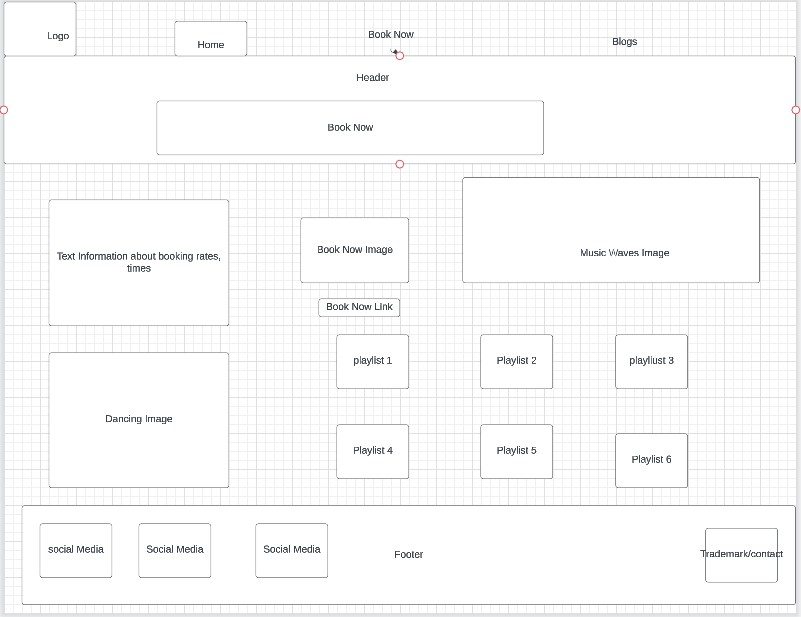
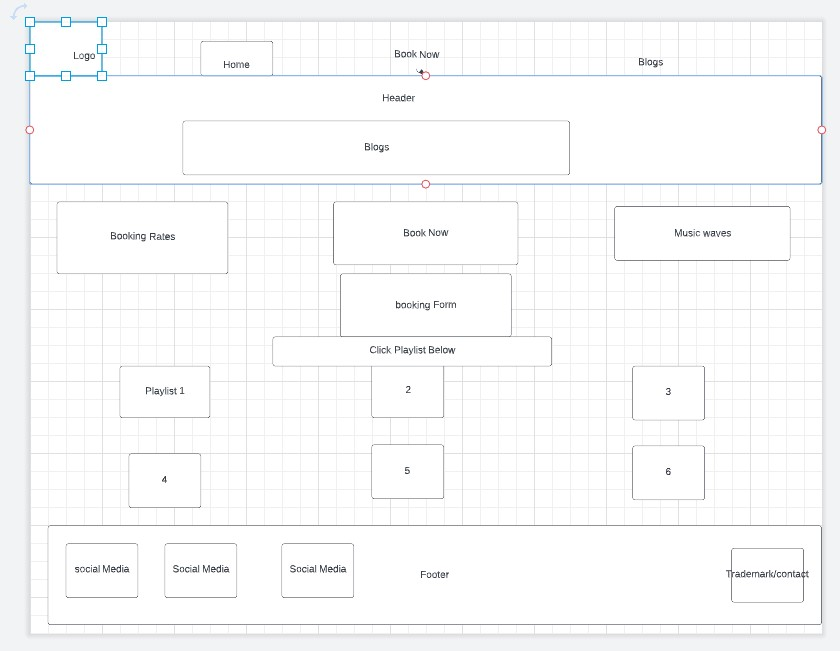
UPDATES

diff --git a/dj/bookconformation.html b/dj/bookconformation.html
@@ -1,16 +1,18 @@
 <!DOCTYPE html>
 <html lang="en">
 <head>
+    <link rel="stylesheet" href="styles/style.css">
     <meta charset="UTF-8">
     <meta http-equiv="X-UA-Compatible" content="IE=edge">
-    <meta name="viewport" content="width=<device-width>, initial-scale=1.0">
-    <title>Booking Confirmed</title>
+    <meta name="viewport" content="width=device-width, initial-scale=1.0">
+    <title>Home</title>
 </head>
 <body>
-    <div id="content">
+    <div id="home-content">
+       
         <header>
-            <a= id="logo_link" href="index.html">
-                <img class= logo src="images/djlogo.jpg" alt="DJ Ziggy Logo" width="50" height="50">
+            <a id="logo_link" href="index.html">
+                <img class="logo" src="images/djlogo.jpg" alt="DJ Ziggy Logo">
             </a>
             <nav>
                 <a href="index.html">Home</a>
@@ -18,6 +20,7 @@
                 <a href="blogs.html">Blogs</a>
 
             </nav>
+
         </header>
         <div id="banner">
             <div id="banner_box">
@@ -27,26 +30,29 @@
                 <h1 class="main_msg">Liven Up Your Party</h1>
                 <h2 class="dj_ziggy">DJ Ziggy</h2>
             </section>
+
     <h1>Hi, Thank you for your request, please allow 1-2 buisness days for a response to your booking request. Thank you</h1>
     <div>
 <nav>
     <a href="index.html">Return Home</a>
 </nav>
     </div>
-    <footer>
-        <p>DJZiggyParty &copy; 2023</p>
-        <p><a href="site-plan.html">site-plan</a></p>
-        <p><a href="book_now.html">Book Now</a></p>
-        <div class="social">
-            <a href="https://www.facebook.com/djziggy280" target="_blank">
-                <img src="images/fblogo.jpg" alt="facebook" width="75" height="75">
-            </a>
-            <a href="https://music.youtube.com/channel/UC_Umbb4esolx9CEexJVbAOg" target="_blank">
-                <img src="images/youtubelogo.jpg" alt="youtube" width="75" height="75">
-            </a>
-            
-        </div>
-    </footer>
-
+            <footer>
+            <p>DJZiggyParty &copy; 2023</p>
+            <p><a href="site-plan.html">site-plan</a></p>
+            <p><a href="book_now.html">Book Now</a></p>
+            <div class="social">
+                <a href="https://www.facebook.com/djziggy280" target="_blank">
+                    <img src="images/fblogo.jpg" alt="facebook" width="150" height="75">
+                </a>
+                <a href="https://music.youtube.com/channel/UC_Umbb4esolx9CEexJVbAOg" target="_blank">
+                    <img src="images/youtubelogo.jpg" alt="youtube" width="150" height="75">
+                </a>
+                
+            </div>
+        </footer>
+    
+    
+</div>
 </body>
 </html>

diff --git a/dj/book_now.html b/dj/book_now.html
@@ -86,9 +86,7 @@
             </div>
 
                
-                <div class="danceimg">
-                    <img src="images/Dancing.jpg" alt="Dancing" width="900px" height="500px">
-                </div>
+                
                 <div class="playlistintro">
                 <h2>Click below to explore your favoirte playlist</h2>
                 </div>
